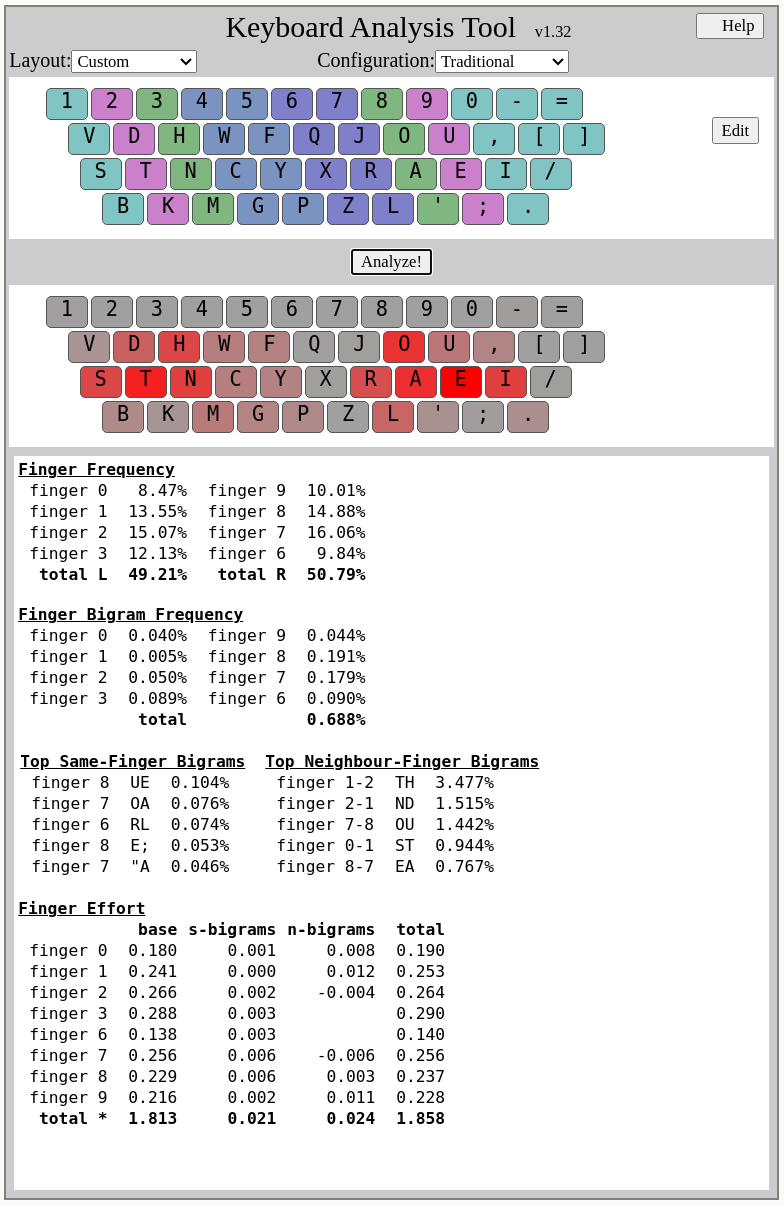
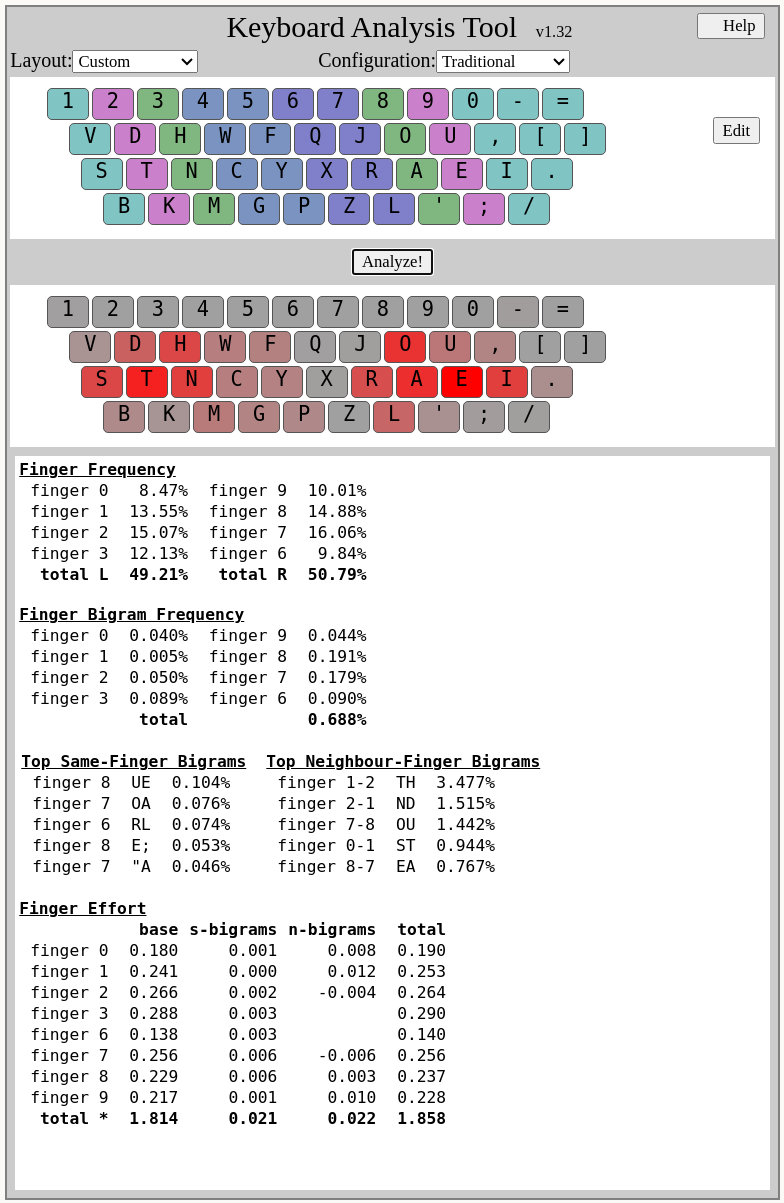
Updated Rambo Layout

Changed region(s): [[0.0, 0.0, 1.0, 1.0], [0.398, 0.3998, 0.4898, 0.4921], [0.7041, 0.0, 0.7347, 0.0615]]

diff --git a/README.md b/README.md
@@ -4,9 +4,10 @@ An alternative keyboard layout built with [Oxeylyzer](https://github.com/O-X-E-Y
 
 ```
 Rambo:
-v d h w f   q j o u ,
-s t n c y   x r a e i
-b k m g p   z l ' ; .
+1 2 3 4 5   6 7 8 9 0 - =
+v d h w f   q j o u , [ ] \
+s t n c y   x r a e i .
+b k m g p   z l ' ; /
 ```
 
 ## Layout Statistics
@@ -31,13 +32,13 @@ Here are the statistics from the cyanophage keyboard analyzer:
 
 Here are the statistics from the colemakmods keyboard analyzer:
 
-<img src="https://raw.githubusercontent.com/drogalis/Rambo/main/assets/rambo-colmak-mod-stats.png" alt="Rambo Alt Keyboard More Stats" style="padding-top: 10px; padding-left: 20px">
+<img src="https://raw.githubusercontent.com/drogalis/Rambo/main/assets/rambo-colmak-mod-stats.png" alt="Rambo Alt Keyboard More Stats" style="padding-top: 10px; padding-right: 100px">
 
 - [Colmak Mod Source](https://colemakmods.github.io/mod-dh/analyze.html)
 
 ## Terminology
 
-A non-exhaustive list of keyboard layout terminology:
+A list of common keyboard layout terminology:
 
 - Bigram: A sequence of two keys (not containing space)
 - Trigram: A sequence of three keys (not containing space)
